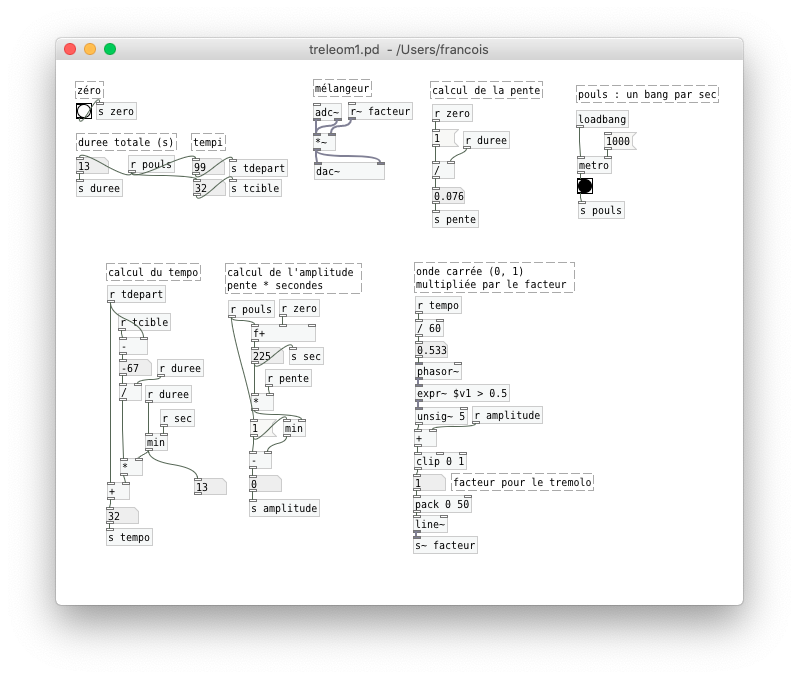
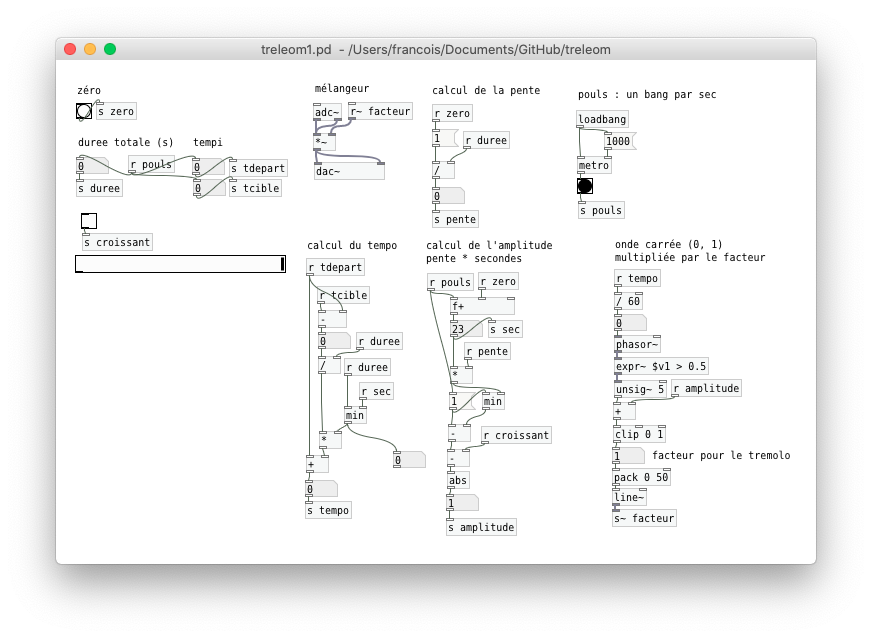
Documentation
remplacement de l'image et documentation (readme) de l'interrupteur croissant et de l'indicateur de progression.

diff --git a/README.md b/README.md
@@ -17,3 +17,5 @@ Ce _patch_ Pure Data traite un signal sonore (originalement pour la guitare) en 
 - Le bouton **zéro** remet la progression à zéro.
 - La **durée totale** est réglée en secondes.
 - Les réglages des **tempi (départ et cible)** sont réglés en bpm.
+- La barre horizontale est un indicateur de progression.
+- L'interrupteur *croissant* permet d'activer le mode croissant, qui débute avec un tremolo agressif qui arrête progressivement sur un volume constant (1).
